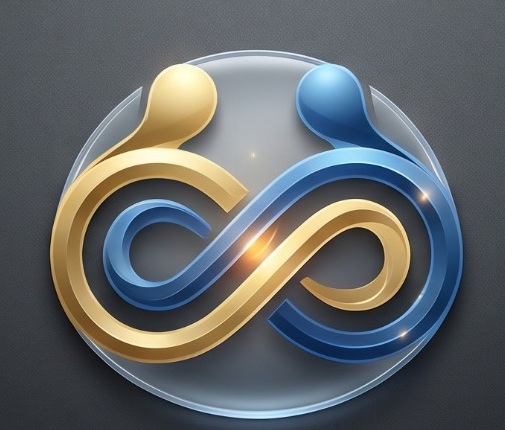
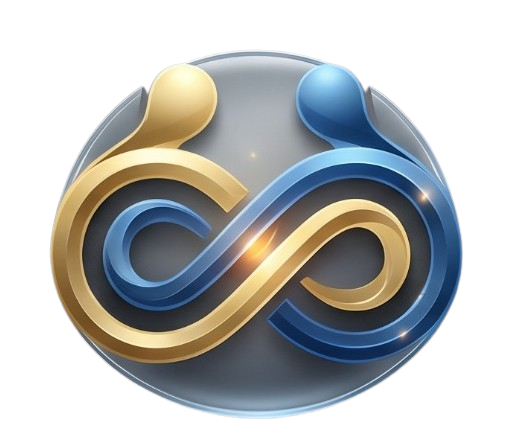
Cambiados los iconos de las cards y añadida sombra

diff --git a/todoirabien/src/app/pages/home/home.css b/todoirabien/src/app/pages/home/home.css
@@ -260,29 +260,72 @@
    ICONOS SIN FONDO
 ======================================== */
 
+
+/* Contenedor del icono */
 .specialty-icon {
+  position: relative;
   display: flex;
   align-items: center;
   justify-content: center;
 
   width: 100%;
   height: 175px;
-  overflow: visible;
-
-  border-radius: 14px;
-  background-color: transparent;
+  isolation: isolate;
 }
 
+/* Forma decorativa detrás del icono */
+.specialty-icon::before {
+  content: "";
+  position: absolute;
+  z-index: -1;
+
+  width: 150px;
+  height: 135px;
+
+  background-color: rgb(0 140 150 / 10%);
+  border-radius: 45% 55% 60% 40% / 50% 45% 55% 50%;
+
+  transform: rotate(-12deg);
+  transition:
+    transform 0.4s ease,
+    background-color 0.4s ease;
+}
+
+/* Imagen transparente */
 .specialty-icon img {
+  position: relative;
   display: block;
+
   width: 160px;
   height: 160px;
   max-width: 100%;
 
   object-fit: contain;
-
   transition: transform 0.3s ease;
 }
+
+/* Animación al pasar el ratón */
+.specialty-card:hover .specialty-icon img {
+  transform: scale(1.06);
+}
+
+.specialty-card:hover .specialty-icon::before {
+  transform: rotate(5deg) scale(1.08);
+  background-color: rgb(0 140 150 / 17%);
+}
+
+@media (prefers-reduced-motion: reduce) {
+  .specialty-icon img,
+  .specialty-icon::before {
+    transition: none;
+  }
+
+  .specialty-card:hover .specialty-icon img,
+  .specialty-card:hover .specialty-icon::before {
+    transform: none;
+  }
+}
+
 
 .specialty-card:hover .specialty-icon img {
   transform: scale(1.06);
